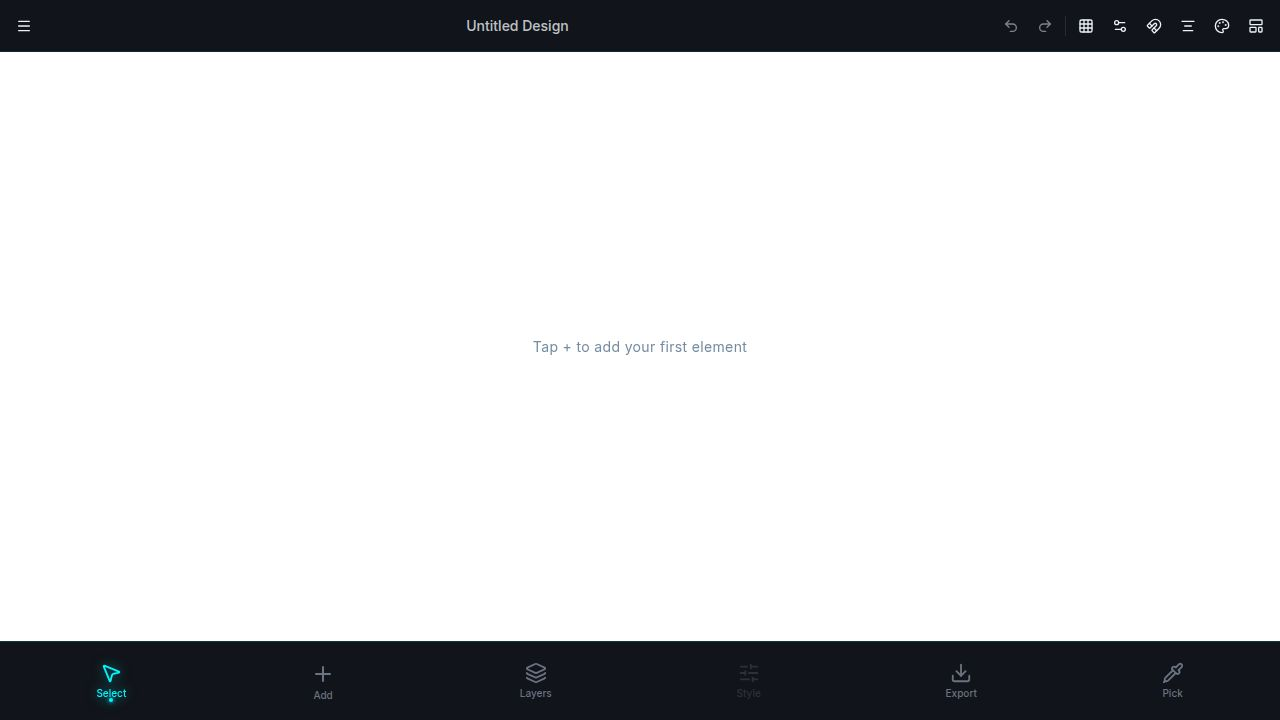
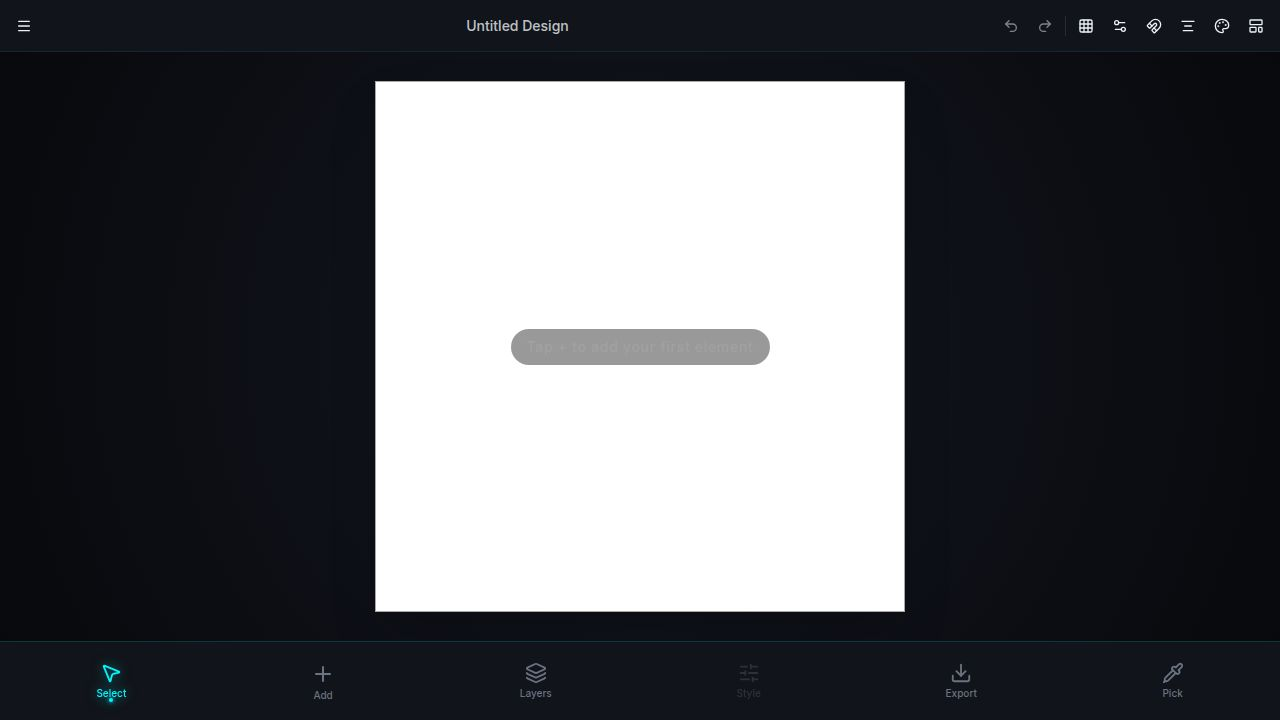
Fix build errors and improve canvas alignment and export logic
Fixes Vite build compilation errors by adjusting Fabric.js method signatures and handling environment variables in Vite configurations. Updates `ExportDialog.tsx` to use the correct state property and action type for closing the dialog. Corrects canvas alignment logic in `useFabricCanvas.ts` by using the updated `getBoundingRect()` method signature for accurate object boundary calculations.

Replit-Commit-Author: Agent
Replit-Commit-Session-Id: e8744d49-6a6d-47e0-bbb6-2f9a1e57ecef
Replit-Commit-Checkpoint-Type: full_checkpoint
Replit-Commit-Event-Id: 97fa5d42-2057-4b9b-936c-b449f985e2a8
Replit-Commit-Screenshot-Url: https://storage.googleapis.com/screenshot-production-us-central1/51726ae8-58fe-4d51-a9fb-48d4480ace7a/e8744d49-6a6d-47e0-bbb6-2f9a1e57ecef/RtD4JNe
Replit-Helium-Checkpoint-Created: true

diff --git a/artifacts/design-editor/vite.config.ts b/artifacts/design-editor/vite.config.ts
@@ -5,23 +5,21 @@ import path from "path";
 import runtimeErrorOverlay from "@replit/vite-plugin-runtime-error-modal";
 import { VitePWA } from 'vite-plugin-pwa';
 
-const rawPort = process.env.PORT;
+const isBuild = process.env.NODE_ENV === 'production' || process.argv.includes('build');
 
-if (!rawPort) {
+const rawPort = process.env.PORT;
+if (!isBuild && !rawPort) {
   throw new Error(
     "PORT environment variable is required but was not provided.",
   );
 }
-
-const port = Number(rawPort);
-
-if (Number.isNaN(port) || port <= 0) {
+const port = Number(rawPort || '3000');
+if (!isBuild && (Number.isNaN(port) || port <= 0)) {
   throw new Error(`Invalid PORT value: "${rawPort}"`);
 }
 
 const basePath = process.env.BASE_PATH;
-
-if (!basePath) {
+if (!isBuild && !basePath) {
   throw new Error(
     "BASE_PATH environment variable is required but was not provided.",
   );

diff --git a/artifacts/mockup-sandbox/vite.config.ts b/artifacts/mockup-sandbox/vite.config.ts
@@ -5,23 +5,21 @@ import path from "path";
 import runtimeErrorOverlay from "@replit/vite-plugin-runtime-error-modal";
 import { mockupPreviewPlugin } from "./mockupPreviewPlugin";
 
-const rawPort = process.env.PORT;
+const isBuild = process.env.NODE_ENV === 'production' || process.argv.includes('build');
 
-if (!rawPort) {
+const rawPort = process.env.PORT;
+if (!isBuild && !rawPort) {
   throw new Error(
     "PORT environment variable is required but was not provided.",
   );
 }
-
-const port = Number(rawPort);
-
-if (Number.isNaN(port) || port <= 0) {
+const port = Number(rawPort || '3000');
+if (!isBuild && (Number.isNaN(port) || port <= 0)) {
   throw new Error(`Invalid PORT value: "${rawPort}"`);
 }
 
 const basePath = process.env.BASE_PATH;
-
-if (!basePath) {
+if (!isBuild && !basePath) {
   throw new Error(
     "BASE_PATH environment variable is required but was not provided.",
   );

diff --git a/artifacts/design-editor/src/components/editor/ExportDialog.tsx b/artifacts/design-editor/src/components/editor/ExportDialog.tsx
@@ -30,7 +30,7 @@ export default function ExportDialog({ controller }: ExportDialogProps) {
     const dataUrl = controller.exportCanvas(format, quality / 100, multiplier);
     if (!dataUrl) return;
     const ext = format === 'jpeg' ? 'jpg' : 'png';
-    const filename = `${state.projectTitle || 'untitled'}_design.${ext}`;
+    const filename = `${state.projectName || 'untitled'}_design.${ext}`;
 
     const link = document.createElement('a');
     link.href = dataUrl;
@@ -39,7 +39,7 @@ export default function ExportDialog({ controller }: ExportDialogProps) {
     link.click();
     document.body.removeChild(link);
 
-    dispatch({ type: 'SET_ACTIVE_PANEL', payload: null });
+    dispatch({ type: 'CLOSE_PANEL' });
   };
 
   const canvasSize = state.canvasSize || { width: 1080, height: 1080 };
@@ -47,7 +47,7 @@ export default function ExportDialog({ controller }: ExportDialogProps) {
   const exportH = Math.round(canvasSize.height * multiplier);
 
   return (
-    <Dialog open={isOpen} onOpenChange={(open) => !open && dispatch({ type: 'SET_ACTIVE_PANEL', payload: null })}>
+    <Dialog open={isOpen} onOpenChange={(open) => !open && dispatch({ type: 'CLOSE_PANEL' })}>
       <DialogContent className="sm:max-w-md gap-4 p-4" data-testid="dialog-export">
         <DialogHeader>
           <DialogTitle className="text-sm font-semibold">Export Design</DialogTitle>

diff --git a/artifacts/design-editor/src/hooks/useFabricCanvas.ts b/artifacts/design-editor/src/hooks/useFabricCanvas.ts
@@ -690,8 +690,8 @@ export function useFabricCanvas(
 
     if (objs.length === 1) {
       const obj = objs[0];
-      // Passing true, true pulls the true outer pixels including all custom stroke-widths and independent scales
-      const visualRect = toDesignSpace(obj.getBoundingRect(true, true));
+      // getBoundingRect() returns the absolute bounding box including strokes and scale (Fabric v6 takes no args)
+      const visualRect = toDesignSpace(obj.getBoundingRect());
       const deltaLeft = (obj.left ?? 0) - visualRect.left;
       const deltaTop = (obj.top ?? 0) - visualRect.top;
 
@@ -707,7 +707,7 @@ export function useFabricCanvas(
     } else {
       c.discardActiveObject();
       const objectsMetadata = objs.map((obj) => {
-        const visualRect = toDesignSpace(obj.getBoundingRect(true, true));
+        const visualRect = toDesignSpace(obj.getBoundingRect());
         return { 
           obj, 
           rect: visualRect, 